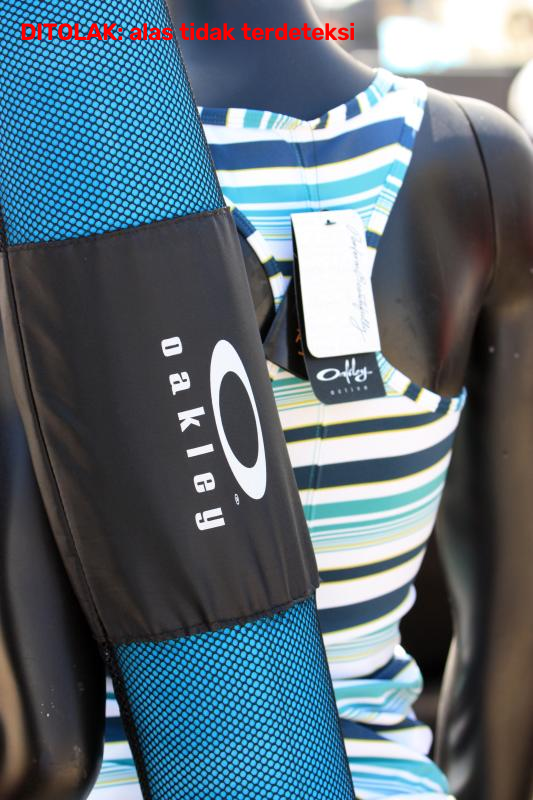
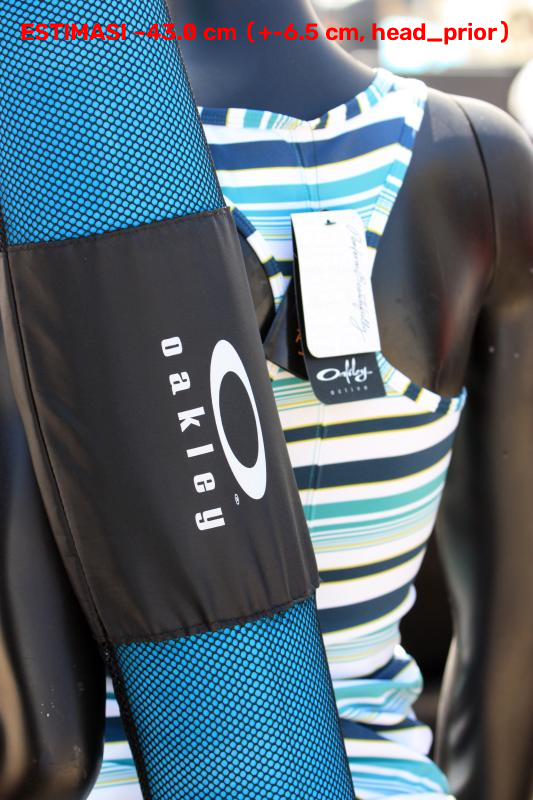
fix(cv): reviewer round-3 — head scan direction, spatial merge, runner manifest
- estimate: scan profil lebar kepala dari ujung max dibalik arahnya
  (sebelumnya ter-scan dari leher -> torso bisa dikira kepala); validasi
  finite untuk f_px/tinggi kamera; test kepala-di-ujung-lain (mirror),
  rasio batas 0.32, parameter tidak valid.
- mat_corners: penggabungan komponen kroma dibatasi secara SPASIAL
  (objek sewarna di tempat jauh tidak ikut menyatu); test distractor
  jauh; test pola tepi diedukasi sesuai perilaku nyata (ring chroma
  menolak pola ekstrem; pola kroma-sama ringan = batas protokol).
- runner: manifest.csv per gambar (spec + warna alas) sehingga bukti
  yoga mat 183x61 cm reproducible dari repo; kolom det_w/det_h; kolom
  estimasi (DEC-016); detector memakai warna manifest (bukan hardcode
  produk).
- privasi: tests/image-test/ dan results/cv/demo_overlay.png di-
  gitignore; demo overlay tidak lagi ter-track.

Changed region(s): [[0.03, 0.0312, 0.9606, 0.0625]]

diff --git a/scripts/run_cv_experiments.py b/scripts/run_cv_experiments.py
@@ -5,19 +5,29 @@ Cara pakai (env datsci):
 
 Membaca semua gambar di experiments/src/**, menjalankan pipeline kanal
 visual untuk tiap foto, lalu menulis:
-- experiments/results/overlay/<nama>.png  (overlay deteksi/hasil/penolakan)
-- experiments/results/report.csv          (tabel hasil lengkap)
+- experiments/results/overlay/<group>/<nama>.png  (overlay, grup babies
+  di-gitignore demi privasi)
+- experiments/results/report.csv                  (tabel hasil lengkap)
+
+Konfigurasi per gambar: `experiments/manifest.csv` (opsional) dengan kolom
+image, mat_width_cm, mat_height_cm, mat_color_r/g/b. Gambar tanpa baris
+manifest memakai spesifikasi produk (60x100 cm, warna standar). Contoh
+baris untuk foto yoga mat biru (Wikimedia, standar 183x61 cm):
+    Gaim_Yoga_Mat_1_2019-05-15.jpg,mats,183,61,199,66,37
 
 Kolom report:
 - group       : subfolder sumber (mats / babies / ...)
 - image       : nama berkas
 - det_nocolor : deteksi alas tanpa signature warna (keseragaman saja)
-- det_color   : deteksi alas dengan signature warna standar produk
+- det_color   : deteksi alas dengan signature warna (spec per manifest)
 - reason      : alasan penolakan (bila gagal)
 - length_cm   : hasil ukur (bila lolos)
 - confidence  : confidence pipeline
 - model       : segmenter yang dipakai
 - latency_ms  : waktu pipeline
+- est_cm      : ESTIMASI tanpa referensi (DEC-016), bila pengukuran ditolak
+- est_method  : head_prior / perspective_prior
+- est_band    : band ketidakpastian (+-cm)
 """
 
 import csv
@@ -26,11 +36,13 @@ import time
 from pathlib import Path
 
 import cv2
+import numpy as np
 
 sys.path.insert(0, str(Path(__file__).resolve().parent.parent))  # repo root
 
 from cv.aruco import MatSpec, draw_overlay, rectify
-from cv.mat_corners import PRODUCT_MAT_COLOR, PRODUCT_MAT_SPEC, detect_mat_corners
+from cv.estimate import estimate_length_no_reference
+from cv.mat_corners import PRODUCT_MAT_COLOR, detect_mat_corners
 from cv.pipeline import measure_length
 from cv.quality import ImageQC
 from cv.segment import ColorSegmenter
@@ -39,9 +51,28 @@ ROOT = Path(__file__).resolve().parent.parent
 SRC = ROOT / "experiments" / "src"
 OUT = ROOT / "experiments" / "results"
 EXT = {".jpg", ".jpeg", ".png"}
+MANIFEST = ROOT / "experiments" / "manifest.csv"
 
 
-def _draw_result(out: cv2.Mat, r) -> None:
+def _load_manifest() -> dict[str, dict]:
+    """manifest.csv -> {nama_gambar: {spec, mat_color}} (kosong bila tak ada)."""
+    if not MANIFEST.exists():
+        return {}
+    out = {}
+    with open(MANIFEST, newline="") as f:
+        for row in csv.DictReader(f):
+            img = row["image"].strip()
+            spec = MatSpec(width_cm=float(row["mat_width_cm"]),
+                           height_cm=float(row["mat_height_cm"]))
+            color = None
+            if row.get("mat_color_r", "").strip():
+                color = (int(row["mat_color_r"]), int(row["mat_color_g"]),
+                         int(row["mat_color_b"]))
+            out[img] = {"spec": spec, "mat_color": color}
+    return out
+
+
+def _draw_result(out: cv2.Mat, r, estimate) -> None:
     if r.ok:
         (x1, y1), (x2, y2) = r.endpoints_px
         cv2.circle(out, (x1, y1), 6, (0, 0, 255), -1)
@@ -49,6 +80,11 @@ def _draw_result(out: cv2.Mat, r) -> None:
         cv2.line(out, (x1, y1), (x2, y2), (0, 0, 255), 2)
         cv2.putText(out, f"length={r.length_cm} cm | {r.model} | conf={r.confidence}",
                     (20, 40), cv2.FONT_HERSHEY_SIMPLEX, 0.9, (0, 0, 255), 2)
+    elif estimate is not None and estimate.ok:
+        band = round(estimate.length_cm * estimate.uncertainty_rel, 1)
+        cv2.putText(out, f"ESTIMASI ~{estimate.length_cm} cm (+-{band} cm, "
+                         f"{estimate.method})",
+                    (20, 40), cv2.FONT_HERSHEY_SIMPLEX, 0.8, (0, 0, 255), 2)
     else:
         msg = f"DITOLAK: {r.qc_reasons[0] if r.qc_reasons else '?'}"
         cv2.putText(out, msg, (20, 40), cv2.FONT_HERSHEY_SIMPLEX, 0.8, (0, 0, 255), 2)
@@ -58,9 +94,9 @@ def main() -> None:
     images = sorted(p for p in SRC.rglob("*") if p.suffix.lower() in EXT)
     if not images:
         raise SystemExit(f"tidak ada gambar di {SRC}")
+    manifest = _load_manifest()
     overlay_dir = OUT / "overlay"
     overlay_dir.mkdir(parents=True, exist_ok=True)
-    # Overlay ditulis per-grup sumber; grup 'babies' di-gitignore (privasi).
 
     rows = []
     for path in images:
@@ -69,21 +105,38 @@ def main() -> None:
             print(f"[skip] tidak terbaca: {path}")
             continue
 
-        det_plain = detect_mat_corners(img, PRODUCT_MAT_SPEC)
-        det_prod = detect_mat_corners(img, PRODUCT_MAT_SPEC, mat_color=PRODUCT_MAT_COLOR)
+        cfg = manifest.get(path.name, {})
+        spec = cfg.get("spec", MatSpec(width_cm=60.0, height_cm=100.0))
+        mat_color = cfg.get("mat_color", PRODUCT_MAT_COLOR)
+
+        det_plain = detect_mat_corners(img, spec)
+        det_prod = detect_mat_corners(img, spec, mat_color=mat_color)
 
         t0 = time.perf_counter()
         res = measure_length(
-            img, PRODUCT_MAT_SPEC,
-            segmenter=ColorSegmenter(mat_color=PRODUCT_MAT_COLOR),
+            img, spec,
+            segmenter=ColorSegmenter(mat_color=mat_color),
             image_qc=ImageQC(),
+            detector=lambda im, sp: detect_mat_corners(im, sp, mat_color=mat_color),
         )
         latency_ms = round((time.perf_counter() - t0) * 1000, 1)
 
+        # Dimensi quad terdeteksi (bukti geometri; mis. yoga mat 183x61).
+        det_w = det_h = ""
+        if det_prod.ok:
+            from cv.aruco import apply_homography
+            pts = apply_homography(det_prod.homography, det_prod.image_points)
+            det_w = round(float(np.linalg.norm(pts[1] - pts[0])), 1)
+            det_h = round(float(np.linalg.norm(pts[2] - pts[1])), 1)
+
+        estimate = None
+        if not res.ok and "alas tidak terdeteksi" in "; ".join(res.qc_reasons):
+            estimate = estimate_length_no_reference(img)
+
         overlay = draw_overlay(img, det_prod if det_prod.ok else det_plain)
         if res.ok:
-            rect = rectify(img, det_prod, PRODUCT_MAT_SPEC, px_per_cm=10.0)
-            mask = (ColorSegmenter(mat_color=PRODUCT_MAT_COLOR)
+            rect = rectify(img, det_prod, spec, px_per_cm=10.0)
+            mask = (ColorSegmenter(mat_color=mat_color)
                     .segment(rect).mask.astype("uint8")) * 255
             scale = np.array([[10, 0, 0], [0, 10, 0], [0, 0, 1]], dtype=np.float64)
             mask_orig = cv2.warpPerspective(mask, np.linalg.inv(scale @ det_prod.homography),
@@ -91,7 +144,7 @@ def main() -> None:
             ov = overlay.copy()
             ov[mask_orig > 0] = (0, 200, 255)
             overlay = cv2.addWeighted(ov, 0.45, overlay, 0.55, 0)
-        _draw_result(overlay, res)
+        _draw_result(overlay, res, estimate)
         group_dir = overlay_dir / path.parent.name
         group_dir.mkdir(parents=True, exist_ok=True)
         cv2.imwrite(str(group_dir / f"{path.stem}.png"), overlay)
@@ -101,13 +154,24 @@ def main() -> None:
             "image": path.name,
             "det_nocolor": det_plain.ok,
             "det_color": det_prod.ok,
+            "det_w_cm": det_w,
+            "det_h_cm": det_h,
             "reason": "; ".join(res.qc_reasons) if not res.ok else "",
             "length_cm": res.length_cm if res.ok else "",
             "confidence": res.confidence if res.ok else "",
             "model": res.model,
             "latency_ms": latency_ms,
+            "est_cm": estimate.length_cm if estimate and estimate.ok else "",
+            "est_method": estimate.method if estimate and estimate.ok else "",
+            "est_band": round(estimate.length_cm * estimate.uncertainty_rel, 1)
+                        if estimate and estimate.ok else "",
         })
-        status = f"{res.length_cm} cm" if res.ok else f"DITOLAK ({res.qc_reasons})"
+        if res.ok:
+            status = f"{res.length_cm} cm"
+        elif estimate is not None and estimate.ok:
+            status = f"ESTIMASI ~{estimate.length_cm} cm ({estimate.method})"
+        else:
+            status = f"DITOLAK ({res.qc_reasons})"
         print(f"[{path.parent.name}] {path.name}: {status} ({latency_ms} ms)")
 
     with open(OUT / "report.csv", "w", newline="") as f:

diff --git a/tests/test_cv_mat_corners.py b/tests/test_cv_mat_corners.py
@@ -4,7 +4,7 @@ import cv2
 import numpy as np
 import pytest
 
-from cv.aruco import apply_homography
+from cv.aruco import MatSpec, apply_homography
 from cv.mat_corners import detect_mat_corners
 from cv.pipeline import measure_length
 from cv.quality import ImageQC
@@ -122,9 +122,50 @@ def test_segiempat_seragam_warna_salah_ditolak():
     assert detect_mat_corners(img, SPEC).ok
 
 
-def test_pola_di_tepi_alas_ditolak():
-    # Alas seragam tapi tepi dalamnya berpola -> ring tidak seragam -> ditolak.
+def test_pola_tepi_ekstrem_ditolak_via_ring_chroma():
+    # Pola tepi dengan lightness ekstrem (sangat gelap/terang): kroma LAB
+    # memampat di L ekstrem sehingga jarak kroma cincin ring ke warna alas
+    # melampaui ambang -> ditolak (fail-closed). Pola kroma-sama dengan
+    # ayunan ringan memang tak terbedakan dari alas polos (batas protokol
+    # DEC-015, diuji terpisah).
     img = np.full((440, 520, 3), 230, np.uint8)
-    img[40:400, 80:460] = (200, 120, 40)          # "alas"
-    img[52:388, 92:448] = (90, 90, 90)            # bingkai gelap di tepi dalam
-    assert not detect_mat_corners(img, SPEC).ok
+    img[20:420, 60:300] = (200, 120, 40)
+    def lightness_strip(y0, y1, x0, x1):
+        for y in range(y0, y1):
+            for x in range(x0, x1, 16):
+                img[y, x:x + 8] = (40, 24, 8)
+                img[y, x + 8:x + 16] = (255, 160, 55)
+    lightness_strip(21, 29, 61, 299)
+    lightness_strip(411, 419, 61, 299)
+    lightness_strip(21, 419, 61, 69)
+    lightness_strip(21, 419, 291, 299)
+    assert not detect_mat_corners(img, SPEC, mat_color=STANDARD_MAT_COLOR).ok
+
+
+def test_rotasi_berlawanan_dan_spec_terbalik():
+    img, _, _, body_cm = synth_plain_mat_with_body()
+    ccw = cv2.rotate(img, cv2.ROTATE_90_COUNTERCLOCKWISE)
+    r = measure_length(ccw, SPEC,
+                       segmenter=ColorSegmenter(mat_color=STANDARD_MAT_COLOR),
+                       image_qc=ImageQC(min_blur_var=1.0))
+    assert r.ok and r.length_cm == pytest.approx(body_cm, abs=1.5)
+
+    # Spesifikasi width > height (100x60) juga harus rotation-safe.
+    rev = MatSpec(width_cm=100.0, height_cm=60.0)
+    det = detect_mat_corners(img, rev, mat_color=STANDARD_MAT_COLOR)
+    assert det.ok, det.reason
+    mapped = apply_homography(det.homography, det.image_points)
+    assert np.allclose(mapped, rev.object_points(), atol=0.5)
+
+
+def test_distractor_sewarna_jauh_tidak_ikut_tergabung():
+    # Benda sewarna alas di tempat jauh: tidak boleh menyatu jadi quad palsu;
+    # alas tetap terdeteksi sendiri.
+    img, ppc, (x0, y0, x1, y1) = synth_plain_mat()
+    # Kotak sewarna di area yang JAUH dari alas (tidak overlap, tidak
+    # menyentuh tepi bingkai) -- harus tidak ikut tergabung.
+    img[20:60, 545:585] = STANDARD_MAT_COLOR
+    det = detect_mat_corners(img, SPEC, mat_color=STANDARD_MAT_COLOR)
+    assert det.ok, det.reason
+    expected = np.array([[x0, y0], [x1, y0], [x1, y1], [x0, y1]], dtype=np.float64)
+    assert np.allclose(det.image_points, expected, atol=3.0)

diff --git a/cv/mat_corners.py b/cv/mat_corners.py
@@ -132,7 +132,10 @@ def _mat_masks_chroma(small: np.ndarray, mat_color_bgr: tuple[int, int, int],
 
     Mengembalikan daftar mask kandidat: komponen terbesar, lalu gabungan
     komponen terbesar 1+2, 1+2+3 (alas yang terbelah bayangan/gradien
-    tetap bisa menyatu). Hanya kroma (a,b) yang dipakai, bukan lightness.
+    tetap bisa menyatu). Penggabungan DIBATASI secara spasial: komponen
+    yang tidak tumpang-tindih dengan bbox akumulasi (di-dilasi) tidak
+    digabung, supaya objek sewarna alas di tempat jauh tidak ikut
+    menyatu menjadi satu quad palsu.
     """
     lab_img = cv2.cvtColor(small, cv2.COLOR_BGR2LAB)
     target = cv2.cvtColor(np.uint8([[mat_color_bgr]]), cv2.COLOR_BGR2LAB)[0, 0, 1:]
@@ -145,9 +148,20 @@ def _mat_masks_chroma(small: np.ndarray, mat_color_bgr: tuple[int, int, int],
     order = sorted(range(1, n), key=lambda i: -stats[i, cv2.CC_STAT_AREA])
     masks: list[np.ndarray] = []
     acc = np.zeros_like(base)
+    bbox: tuple[int, int, int, int] | None = None
     for i in order[:max_merge]:
+        x, y, w, h = stats[i, cv2.CC_STAT_LEFT], stats[i, cv2.CC_STAT_TOP], \
+                     stats[i, cv2.CC_STAT_WIDTH], stats[i, cv2.CC_STAT_HEIGHT]
+        if bbox is not None:
+            bx0, by0, bx1, by1 = bbox
+            pad = 0.2
+            if x > bx1 + pad * (bx1 - bx0) or x + w < bx0 - pad * (bx1 - bx0) \
+                    or y > by1 + pad * (by1 - by0) or y + h < by0 - pad * (by1 - by0):
+                break  # komponen terpisah jauh: bukan pecahan alas yang sama
         acc[labels == i] = 255
         masks.append(acc.copy())
+        ys, xs = np.nonzero(labels == i)
+        bbox = (int(xs.min()), int(ys.min()), int(xs.max()), int(ys.max()))
     return masks
 
 

diff --git a/tests/test_cv_estimate.py b/tests/test_cv_estimate.py
@@ -62,3 +62,30 @@ def test_tanpa_foreground_gagal():
     img = np.full((200, 300, 3), BLANKET, np.uint8)  # selimut saja
     r = estimate_length_no_reference(img)
     assert not r.ok and r.reasons
+
+
+def test_kepala_di_ujung_lain_tetap_terukur():
+    # Mirror sintetis: kepala di sisi kanan (ujung proyeksi MAX). Scan arah
+    # terbalik harus tetap menemukan kepala (regresi reviewer round-3).
+    img, total_cm, head_px = synth_baby()
+    flipped = img[:, ::-1].copy()
+    r = estimate_length_no_reference(flipped)
+    assert r.ok, r.reasons
+    assert r.length_cm == pytest.approx(total_cm, rel=0.10)
+
+
+def test_rasio_tepat_di_batas_atas_jatuh_ke_perspektif():
+    # Rasio kepala:panjang ~0.32 (batas MAX) -> gate STRICT menolak.
+    # Kepala 21 cm -> 21/(21+4+40) = 0.323 > 0.32.
+    img, total_cm, _ = synth_baby(head_cm=21.0, body_cm=(40.0, 9.0))
+    r = estimate_length_no_reference(img, camera_height_cm=80.0, focal_px=640.0)
+    assert r.ok, r.reasons
+    # Di atas batas fisiologis -> perspektif (bukan head_prior).
+    assert r.method == "perspective_prior"
+
+
+def test_parameter_perspektif_tidak_valid_ditolak():
+    from _cv_synth import synth_plain_mat_with_body  # noqa: F401
+    img, _, _ = synth_baby(head_cm=25.0)  # rasio non-fisiologis -> perspektif
+    r = estimate_length_no_reference(img, camera_height_cm=0.0, focal_px=640.0)
+    assert not r.ok

diff --git a/cv/estimate.py b/cv/estimate.py
@@ -106,7 +106,8 @@ def estimate_length_no_reference(
 
     # 4. Fallback: prior perspektif (foto miring/samping atau tanpa kulit).
     f_px = focal_px if focal_px else DEFAULT_FOCAL_FRACTION * image.shape[1]
-    if f_px <= 0 or camera_height_cm <= 0:
+    if not (np.isfinite(f_px) and f_px > 0
+            and np.isfinite(camera_height_cm) and camera_height_cm > 0):
         return EstimateResult(ok=False, reasons=["parameter perspektif tidak valid"])
     length_cm = span_px * camera_height_cm / f_px
     reasons = []
@@ -179,9 +180,14 @@ def _head_diameter_px(image: np.ndarray, foreground: np.ndarray, span_px: float,
         bins: dict[int, list[float]] = {}
         for p, q in zip(proj[sel], pperp[sel]):
             bins.setdefault(int((p - lo) / bin_px), []).append(q)
+        # Scan selalu DARI ujung siluet ke dalam: untuk ujung max, bin
+        # dibalik (naik dari ujung). Tanpa ini, ujung max ter-scan dari
+        # leher ke kepala dan torso yang lebih lebar bisa dikira kepala.
+        keys = sorted(bins, reverse=True) if end == float(proj.max()) \
+            else sorted(bins)
         run_max = 0.0
         head_w = 0.0
-        for k in sorted(bins):
+        for k in keys:
             w = float(np.ptp(bins[k]))
             if w > run_max:
                 run_max = w

diff --git a/cv/pipeline.py b/cv/pipeline.py
@@ -76,8 +76,9 @@ def measure_length(
     default deteksi alas polos dengan verifikasi warna standar produk
     (DEC-015). Mode marker ArUco: `detector=cv.aruco.detect_markers`.
     `fallback_segmenter`: dipakai otomatis bila segmenter utama gagal;
-    default = baseline warna dengan warna alas produk (DEC-014). Lewatkan
-    fallback_segmenter lain untuk menimpa; None melarang fallback.
+    default = baseline warna dengan warna alas produk (DEC-014) --
+    berlaku untuk alur produk; mode marker/alas lain lewatkan
+    fallback_segmenter sendiri. Fallback dilewati bila backend sama.
     """
     t0 = time.perf_counter()
     segmenter = segmenter or get_segmenter("birefnet")
